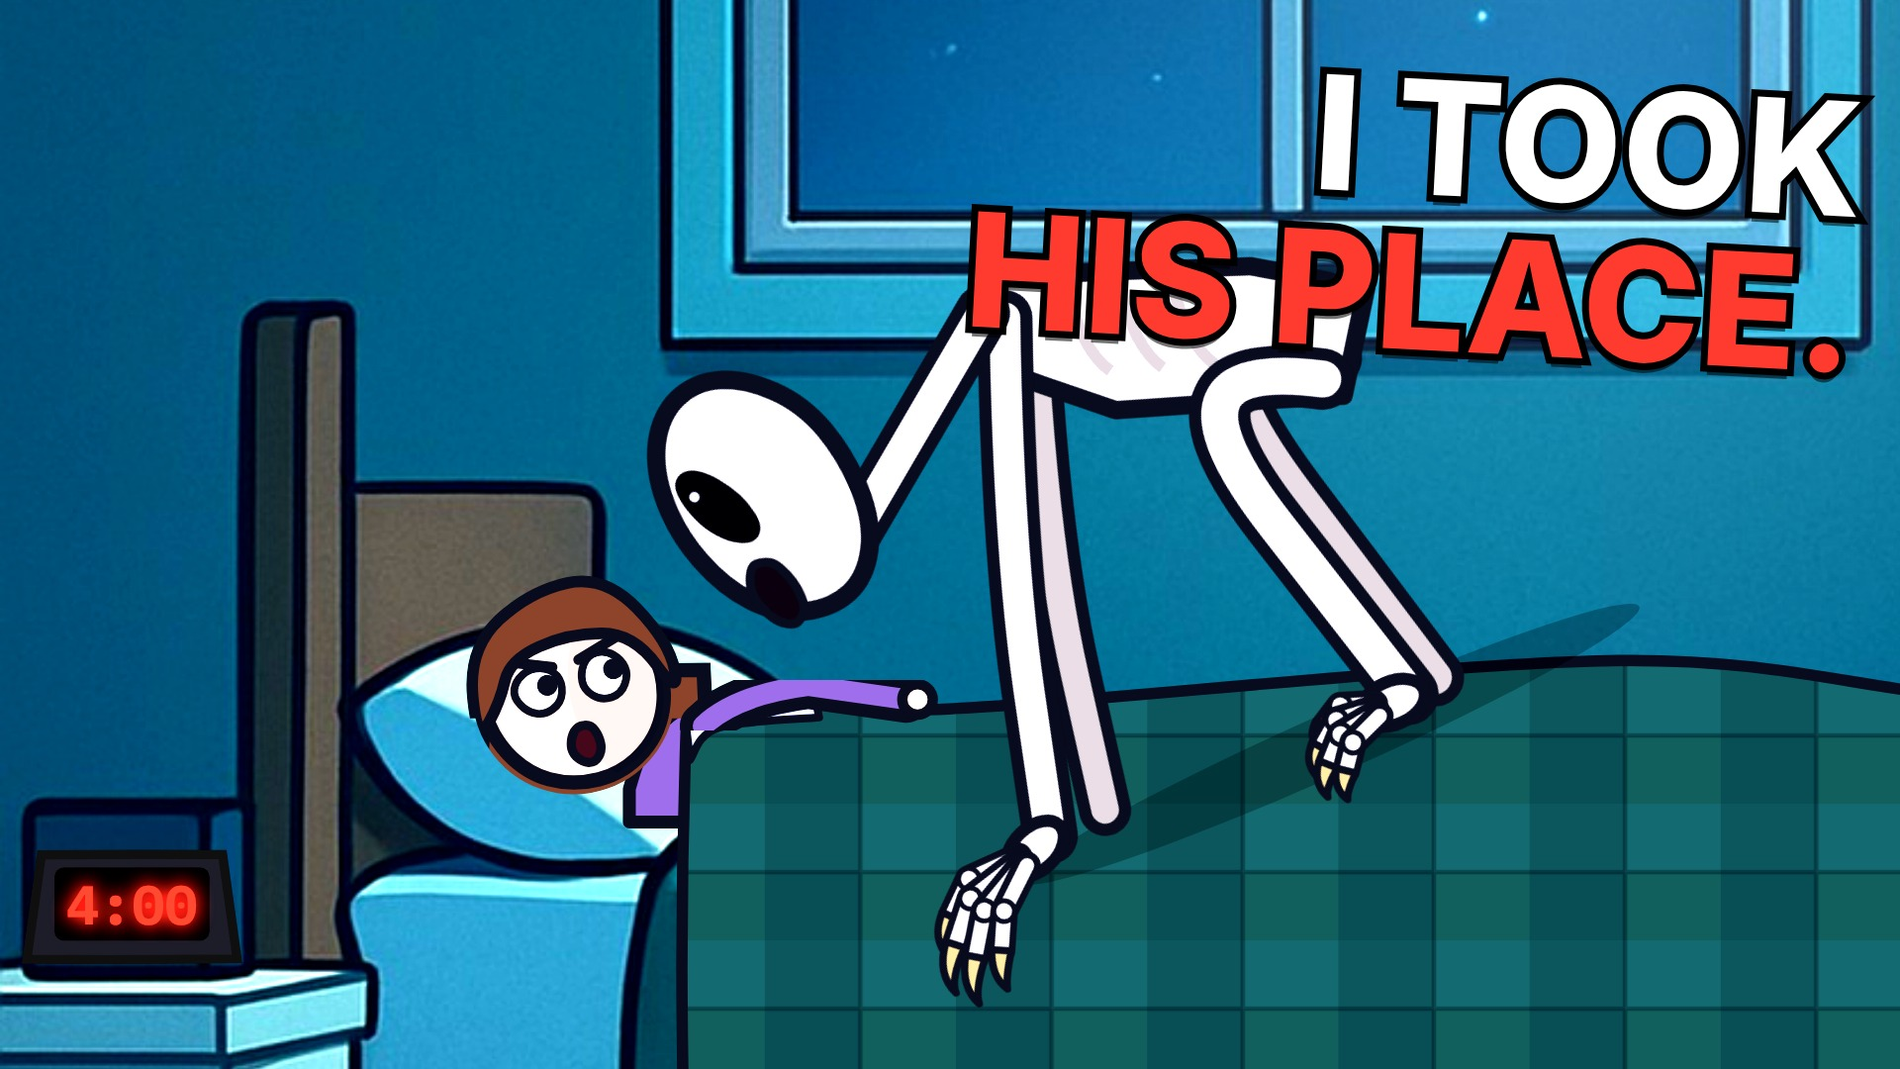
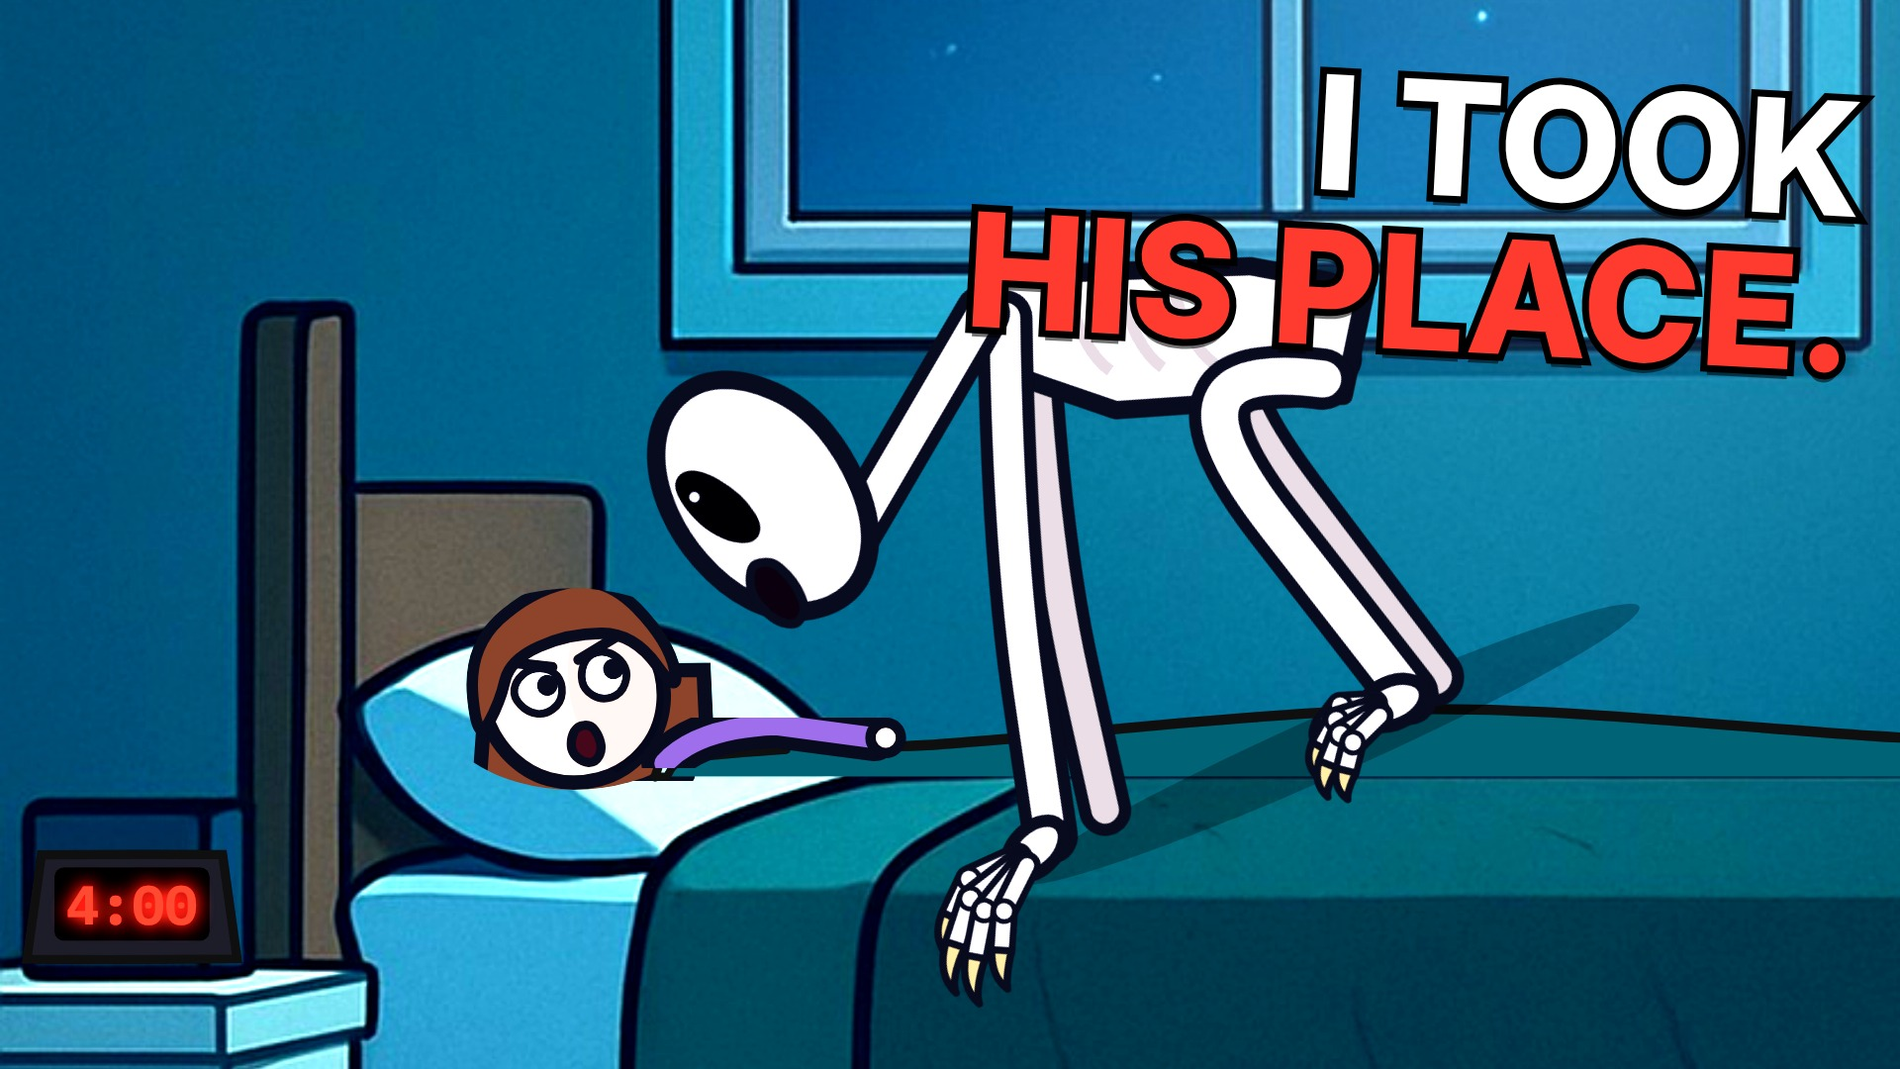
The Rake (stick): sleepers no longer overlap the painted beds
The painted bed now stays exactly as painted; only what a body changes is drawn above the painted
quilt's top edge, in its own colour: head on the pillow (oval clip, hair falls onto the pillow),
shoulder, the mound the body raises, the turned-down sheet and an arm resting on top. The parents'
double bed gets its own drawing (one mound over both, sheet over the chests, quilt below). The
covers-over-the-head lump follows the same rule. Thumbnails re-rendered.

Claude-Session: https://claude.ai/code/session_01HYgoxans3AHT78NQRMkcgm

Changed region(s): [[0.2812, 0.6111, 1.0, 1.0], [0.25, 0.6722, 0.2812, 0.7333], [0.2812, 0.5194, 0.3125, 0.55]]

diff --git a/rake-stick/src/stick/bed.tsx b/rake-stick/src/stick/bed.tsx
@@ -51,11 +51,11 @@ const smoothThrough = (pts: Array<[number, number]>) => {
 	return d;
 };
 
-/** lying on the pillow at px (pillow centre x): the head on the pillow (the stick figure clipped to its head, so no
- *  arm stubs show under the chin), the neck and shoulder in the pyjama colour, the blanket drawn over the body from
- *  the shoulder (it follows chest, knees and feet), and one arm resting on top of it with a round hand.
- *  `matte`: instead of the patchwork quilt, a plain band in the painted quilt's own colour that only raises the body
- *  above the plate's quilt (for beds whose painted quilt should stay visible, e.g. the parents' bed). */
+/** lying on the pillow at px (pillow centre x). The painted bed stays exactly as painted; only what a body changes is
+ *  drawn on top, all of it ABOVE the painted quilt's top edge (b.quilt): the head on the pillow (the stick figure
+ *  clipped to its head, no arms), the shoulder in the pyjama colour, the mound the body raises in the quilt (in the
+ *  painted quilt's own colour, from where the painted quilt starts to the foot), the sheet turned over at its top,
+ *  and one arm resting on it with a round hand. */
 export const LieInBed: React.FC<{
 	b: BedGeo;
 	is: AnyPerson;
@@ -66,18 +66,16 @@ export const LieInBed: React.FC<{
 	frame: number;
 	p?: Record<string, unknown>;
 	id: string;
+	/** knees lift (px), for something pressing on the blanket */
 	wob?: number;
 	x1?: number;
-	/** false: only the head (something else covers the body) */
+	/** false: only the head */
 	blanket?: boolean;
 	shirt?: string;
 	skin?: string;
 	arm?: boolean;
-	cols?: string[];
-	matte?: string;
-	/** move the whole sleeper down (the one nearer the camera in a double bed) */
 	dy?: number;
-}> = ({b, is: P, px, s, child = false, light, frame, p = {}, id, wob = 0, x1, blanket = true, shirt = '#e7a9bb', skin = '#f1cfae', arm = true, cols, matte, dy = 0}) => {
+}> = ({b, is: P, px, s, child = false, light, frame, p = {}, id, wob = 0, x1, blanket = true, shirt = '#e7a9bb', skin = '#f1cfae', arm = true, dy = 0}) => {
 	const k = child ? 0.62 : 1;
 	const R = 36 * (child ? 1.08 : 1) * s;
 	const hy = b.pillowY - 30 + dy;
@@ -86,69 +84,39 @@ export const LieInBed: React.FC<{
 	const hcx = px - 0.24 * R;
 	const hcy = hy + 0.03 * R;
 	const ad = child ? 1 : 1.3;
-	const foot = x1 ?? b.x1 - 30;
-	const xe = px + 0.78 * R * ad; // the blanket's edge, just past the chin
-	const ySh = hy + (matte ? 0.42 : 0.1) * R; // over the shoulder
-	const kneeY = Math.min(b.quilt - 42 + dy, ySh + 0.25 * R) + wob;
-	const flat = b.quilt - 6 + dy * 0.3;
-	const contour: Array<[number, number]> = matte
-		? [
-				[xe - 0.06 * R, ySh + 0.32 * R],
-				[xe + 0.22 * R, ySh + 0.04 * R],
-				[xe + 0.95 * R * ad, ySh + 0.16 * R],
-				[xe + 1.9 * R * ad, (ySh + flat) / 2 + 6],
-				[xe + 3.0 * R * ad, flat - 4],
-				[foot - 200, flat - 2],
-				[foot - 6, flat],
-			]
-		: [
-		[xe - 0.06 * R, ySh + 0.3 * R],
-		[xe + 0.22 * R, ySh],
-		[xe + 1.0 * R * ad, ySh - 0.07 * R],
-		[xe + 2.1 * R * ad, ySh + 0.1 * R],
-		[xe + 0.55 * (foot - xe), kneeY - 6],
-		[foot - 170, kneeY + 10],
-		[foot - 60, kneeY - 8],
-		[foot - 6, kneeY + 18],
-			];
-	const bottom = matte ? b.quilt + 16 + dy : b.skirtTop;
+	const base = b.quilt + 3; // just over the painted quilt's top edge line
+	const xs = Math.max(b.qx0 ?? b.x0 + 200, px + 0.35 * R); // where the mound starts (the painted quilt's start)
+	const foot = x1 ?? b.qx1 ?? b.x1 - 40;
+	const ySh = base - 0.34 * R * ad; // top of the shoulder
+	const kneeX = xs + 0.45 * (foot - xs);
+	const contour: Array<[number, number]> = [
+		[xs - 0.05 * R, base],
+		[xs + 0.22 * R, ySh + 0.04 * R],
+		[xs + 1.0 * R * ad, ySh - 0.04 * R],
+		[xs + 2.0 * R * ad, ySh + 0.12 * R],
+		[kneeX, base - 0.55 * R * ad - wob],
+		[foot - 170, base - 0.3 * R * ad],
+		[foot - 60, base - 0.6 * R * ad],
+		[foot - 4, base],
+	];
 	const topPath = `M${contour[0][0]},${contour[0][1]}${smoothThrough(contour)}`;
-	const edgeX = xe - (matte ? 0.5 : 0.04) * R; // the blanket's near edge slants down toward the pillow
-	const blanketD = `M${edgeX},${bottom} Q${contour[0][0] - 0.1 * R},${(bottom + contour[0][1]) / 2} ${contour[0][0]},${contour[0][1]}${smoothThrough(contour)} L${foot + 2},${bottom} Z`;
-	// the sheet turned down over the blanket's top edge, near the head
-	const foldPts = contour.slice(0, 3);
-	const foldD = `M${foldPts[0][0]},${foldPts[0][1]}${smoothThrough(foldPts)} L${foldPts[2][0] + 0.05 * R},${foldPts[2][1] + 0.26 * R} ${smoothThrough([[foldPts[2][0] + 0.05 * R, foldPts[2][1] + 0.26 * R], [foldPts[1][0] + 0.06 * R, foldPts[1][1] + 0.3 * R], [foldPts[0][0] + 0.04 * R, foldPts[0][1] + 0.34 * R]]).trim().replace(/^C/, 'C')} Z`;
-	// the arm resting on the blanket: out from under its edge at the shoulder, along the chest, the hand on the tummy
+	const moundD = `${topPath} Z`;
+	// the turned-over sheet along the top near the head
+	const f0 = contour.slice(0, 3);
+	const foldD = `M${f0[0][0]},${f0[0][1]}${smoothThrough(f0)} L${f0[2][0] + 0.04 * R},${f0[2][1] + 0.2 * R} ${smoothThrough([[f0[2][0] + 0.04 * R, f0[2][1] + 0.2 * R], [f0[1][0] + 0.08 * R, f0[1][1] + 0.22 * R], [f0[0][0] + 0.12 * R, base]]).trim()} Z`;
+	// the shoulder between the chin and the mound
+	const bodyD = `M${px + 0.25 * R},${base} C${px + 0.3 * R},${ySh + 0.25 * R} ${px + 0.5 * R},${ySh} ${xs + 0.3 * R},${ySh} L${xs + 0.3 * R},${base} Z`;
+	// the arm resting on the mound
 	const topAt = (x: number) => {
 		let best = contour[0];
 		for (const c of contour) if (Math.abs(c[0] - x) < Math.abs(best[0] - x)) best = c;
 		return best[1];
 	};
 	const aw = 0.26 * R * (child ? 1 : 0.85);
-	const sh: [number, number] = [xe + 0.12 * R, ySh + 0.28 * R];
-	const el: [number, number] = [xe + 0.95 * R * ad, topAt(xe + 0.95 * R * ad) - aw * 0.35];
-	const hd: [number, number] = [xe + 1.75 * R * ad, topAt(xe + 1.75 * R * ad) - aw * 0.45];
-	const armD = `M${sh[0]},${sh[1]} Q${sh[0] + 0.35 * R},${ySh - 0.05 * R} ${el[0]},${el[1]} L${hd[0]},${hd[1]}`;
-	// neck + shoulder between the chin and the blanket edge
-	const bodyD = `M${px + 0.35 * R},${hy + 1.05 * R} C${px + 0.45 * R},${hy + 0.7 * R} ${px + 0.6 * R},${ySh + 0.02 * R} ${xe + 0.4 * R},${ySh - 0.05 * R} L${xe + 0.4 * R},${hy + 1.4 * R} L${px + 0.35 * R},${hy + 1.4 * R} Z`;
-	const fill = matte ?? undefined;
-	const quilt = matte ? (
-		<g>
-			<path d={blanketD} fill={fill} />
-			<path d={topPath} fill="none" stroke={INK} strokeWidth={4.5} strokeLinecap="round" />
-			<path d={`M${edgeX},${bottom - 4} Q${contour[0][0] - 0.1 * R},${(bottom + contour[0][1]) / 2} ${contour[0][0]},${contour[0][1]}`} fill="none" stroke={INK} strokeWidth={4.5} strokeLinecap="round" />
-		</g>
-	) : (
-		<Quilt id={`${id}_q`} cols={cols ?? b.quiltCols} d={blanketD} />
-	);
-	const foldEl = <path d={foldD} fill={matte ? '#d8d0c6' : '#c9cfe6'} stroke={INK} strokeWidth={3.5} strokeLinejoin="round" />;
-	const armEl = arm ? (
-		<g>
-			<path d={armD} fill="none" stroke={INK} strokeWidth={aw + lw * 2} strokeLinecap="round" strokeLinejoin="round" />
-			<path d={armD} fill="none" stroke={shirt} strokeWidth={aw} strokeLinecap="round" strokeLinejoin="round" />
-			<circle cx={hd[0] + 0.12 * R} cy={hd[1]} r={0.19 * R * (child ? 1 : 0.85)} fill={skin} stroke={INK} strokeWidth={lw * 0.8} />
-		</g>
-	) : null;
+	const sh: [number, number] = [xs + 0.05 * R, ySh + 0.3 * R];
+	const el: [number, number] = [xs + 0.95 * R * ad, topAt(xs + 0.95 * R * ad) - aw * 0.3];
+	const hd: [number, number] = [xs + 1.75 * R * ad, topAt(xs + 1.75 * R * ad) - aw * 0.4];
+	const armD = `M${sh[0]},${sh[1]} Q${sh[0] + 0.35 * R},${ySh - 0.08 * R} ${el[0]},${el[1]} L${hd[0]},${hd[1]}`;
 	return (
 		<g>
 			{blanket ? (
@@ -158,8 +126,8 @@ export const LieInBed: React.FC<{
 			) : null}
 			<defs>
 				<clipPath id={`${id}_head`}>
-					<rect x={0} y={0} width={1920} height={hy + 0.3 * R} />
-					<circle cx={hcx} cy={hcy} r={R + 2.8 * s} />
+					{/* an oval round the head: hair falls onto the pillow with a soft edge, nothing shows below the chin */}
+					<ellipse cx={hcx} cy={hcy - 0.04 * R} rx={1.55 * R} ry={1.07 * R} />
 				</clipPath>
 			</defs>
 			<g clipPath={`url(#${id}_head)`}>
@@ -167,22 +135,121 @@ export const LieInBed: React.FC<{
 					<P x={px} y={hy + headUp} s={s} frame={frame} tilt={-14} arms="down" noArms {...p} />
 				</Tint>
 			</g>
-			{blanket ? (matte ? quilt : <Tint light={light}>{quilt}</Tint>) : null}
-			{blanket ? (matte ? foldEl : <Tint light={light}>{foldEl}</Tint>) : null}
-			{blanket ? <Tint light={light}>{armEl}</Tint> : null}
+			{blanket ? (
+				<g>
+					<path d={moundD} fill={b.qcol ?? b.quiltCols[0]} />
+					<path d={topPath} fill="none" stroke={INK} strokeWidth={4.5} strokeLinecap="round" strokeLinejoin="round" />
+					{b.sheet ? <path d={foldD} fill={b.sheet} stroke={INK} strokeWidth={3.5} strokeLinejoin="round" /> : null}
+					{arm ? (
+						<Tint light={light}>
+							<path d={armD} fill="none" stroke={INK} strokeWidth={aw + lw * 2} strokeLinecap="round" strokeLinejoin="round" />
+							<path d={armD} fill="none" stroke={shirt} strokeWidth={aw} strokeLinecap="round" strokeLinejoin="round" />
+							<circle cx={hd[0] + 0.12 * R} cy={hd[1]} r={0.19 * R * (child ? 1 : 0.85)} fill={skin} stroke={INK} strokeWidth={lw * 0.8} />
+						</Tint>
+					) : null}
+				</g>
+			) : null}
 		</g>
 	);
 };
 
-/** the blanket pulled over the head: a trembling lump */
-export const HideInBed: React.FC<{b: BedGeo; px: number; light?: Light; shiver?: number; frame: number; id: string}> = ({b, px, light, shiver = 1, frame, id}) => {
-	const j = Math.sin(frame * 2.1) * 2.5 * shiver;
-	const top = b.quilt - 90 + j;
-	const d = `M${b.x0 + 30},${b.skirtTop} L${b.x0 + 32},${top + 50} C${px - 60},${top - 10} ${px + 40},${top - 20} ${px + 120},${top + 30} C${px + 220},${top + 40} ${b.x1 - 160},${top + 26} ${b.x1 - 50},${top + 44} C${b.x1 - 20},${top + 50} ${b.x1 - 10},${top + 70} ${b.x1 - 8},${b.skirtTop} Z`;
+/** Her parents' double bed with Mom (back pillow) and Lily (front pillow) asleep under one blanket: the painted bed
+ *  stays as painted; one mound rises over both bodies above the painted quilt's edge - the top sheet turned down over
+ *  their chests, the quilt from the waist down - with Mom's arm and Lily's arm resting on it. */
+export const ParentsBed: React.FC<{
+	frame: number;
+	mom: AnyPerson;
+	lily: AnyPerson;
+	momP?: Record<string, unknown>;
+	lilyP?: Record<string, unknown>;
+	momShirt: string;
+	momSkin: string;
+	lilyShirt: string;
+	lilySkin: string;
+	light?: Light;
+}> = ({frame, mom: Mom, lily: Lily, momP = {}, lilyP = {}, momShirt, momSkin, lilyShirt, lilySkin, light}) => {
+	const QUILT = '#c09e78';
+	const SHEET = '#cdb9a5';
+	// heads: Mom on the back pillow, Lily on the front one
+	const mR = 36 * 1.3;
+	const lR = 36 * 1.08 * 1.6;
+	const mHy = 610;
+	const lHy = 624;
+	const head = (P: AnyPerson, px: number, hy: number, s: number, child: boolean, R: number, p: Record<string, unknown>, id: string) => (
+		<g>
+			<defs>
+				<clipPath id={id}>
+					<ellipse cx={px - 0.24 * R} cy={hy - 0.01 * R} rx={1.55 * R} ry={1.07 * R} />
+				</clipPath>
+			</defs>
+			<g clipPath={`url(#${id})`}>
+				<Tint light={light}>
+					<P x={px} y={hy + 262 * (child ? 0.62 : 1) * s} s={s} frame={frame} tilt={-14} arms="down" noArms {...p} />
+				</Tint>
+			</g>
+		</g>
+	);
+	const contour: Array<[number, number]> = [
+		[232, 742],
+		[262, 668],
+		[300, 650],
+		[352, 664],
+		[420, 676],
+		[505, 664],
+		[600, 672],
+		[760, 688],
+		[960, 684],
+		[1100, 694],
+		[1190, 688],
+		[1248, 718],
+	];
+	const top = `M${contour[0][0]},${contour[0][1]}${smoothThrough(contour)}`;
+	const mound = `${top} L1248,722 L400,722 L372,780 L240,792 Z`;
+	// the turned-down sheet: the part over their chests, ending in a soft fold at x ~ 740
+	const sheetD = `M232,742${smoothThrough(contour.slice(0, 8))} C752,700 742,712 738,722 L400,722 L372,780 L240,792 Z`;
+	const arm = (pts: string, w: number, col: string, hand: [number, number], r: number) => (
+		<g>
+			<path d={pts} fill="none" stroke={INK} strokeWidth={w + 10} strokeLinecap="round" strokeLinejoin="round" />
+			<path d={pts} fill="none" stroke={col} strokeWidth={w} strokeLinecap="round" strokeLinejoin="round" />
+			<circle cx={hand[0]} cy={hand[1]} r={r} fill={momSkin === col ? lilySkin : col === momShirt ? momSkin : lilySkin} stroke={INK} strokeWidth={5} />
+		</g>
+	);
 	return (
-		<Tint light={light}>
-			<Quilt id={`${id}_q`} cols={b.quiltCols} d={d} />
-		</Tint>
+		<g>
+			{head(Mom, 215, mHy, 1.3, false, mR, momP, 'pbMom')}
+			<path d={mound} fill={QUILT} />
+			<path d={sheetD} fill={SHEET} />
+			<path d={top} fill="none" stroke={INK} strokeWidth={4.5} strokeLinecap="round" strokeLinejoin="round" />
+			<path d="M752,700 C742,712 740,716 738,722" fill="none" stroke={INK} strokeWidth={3.5} strokeLinecap="round" />
+			<Tint light={light}>{arm('M296,676 Q330,654 372,660 L432,662', 12, momShirt, [446, 662], 9)}</Tint>
+			{head(Lily, 430, lHy, 1.6, true, lR, lilyP, 'pbLily')}
+			<Tint light={light}>{arm('M500,700 Q540,668 580,664 L640,664', 16, lilyShirt, [656, 664], 12)}</Tint>
+		</g>
+	);
+};
+
+/** the blanket pulled over the head: a trembling lump in the painted quilt's colour, over the pillow */
+export const HideInBed: React.FC<{b: BedGeo; px: number; light?: Light; shiver?: number; frame: number; id: string}> = ({b, px, shiver = 1, frame}) => {
+	const j = Math.sin(frame * 2.1) * 2.5 * shiver;
+	const base = b.quilt + 3;
+	const foot = b.qx1 ?? b.x1 - 40;
+	const top: Array<[number, number]> = [
+		[b.x0 + 40, base + 70],
+		[px - 90, base - 70 + j],
+		[px + 40, base - 92 + j],
+		[px + 190, base - 58 + j],
+		[px + 420, base - 34 + j * 0.5],
+		[foot - 160, base - 26],
+		[foot - 60, base - 40],
+		[foot - 4, base],
+	];
+	const d = `M${top[0][0]},${top[0][1]}${smoothThrough(top)} L${foot - 4},${base + 2} L${(b.qx0 ?? px + 80) + 10},${base + 2} L${px + 60},${base + 70} Z`;
+	return (
+		<g>
+			<path d={d} fill={b.qcol ?? b.quiltCols[0]} />
+			<path d={`M${top[0][0]},${top[0][1]}${smoothThrough(top)}`} fill="none" stroke={INK} strokeWidth={5} strokeLinecap="round" />
+			<path d={`M${top[0][0]},${top[0][1]} L${px + 60},${base + 70}`} fill="none" stroke={INK} strokeWidth={4} strokeLinecap="round" />
+		</g>
 	);
 };
 

diff --git a/rake-stick/src/stick/kit.tsx b/rake-stick/src/stick/kit.tsx
@@ -70,12 +70,14 @@ export type SetId = 'bedroom_night' | 'bedroom_pov_night' | 'master_night' | 'ki
 const WHITE_SETS = new Set<SetId>([]);
 
 /** a bed seen side-on (headboard left): the quilt top, the pillow, the skirt, the floor in front */
-export type BedGeo = {x0: number; x1: number; pillow: [number, number]; pillowY: number; quilt: number; skirtTop: number; skirtBottom: number; floor: number; quiltCols: string[]};
+export type BedGeo = {x0: number; x1: number; pillow: [number, number]; pillowY: number; quilt: number; skirtTop: number; skirtBottom: number; floor: number; quiltCols: string[];
+	/** the painted quilt's far top edge: where it starts by the pillow and ends at the foot, its colour, and the sheet's */
+	qx0?: number; qx1?: number; qcol?: string; sheet?: string};
 
 /** measured on the painted plates (1920x1080) */
 export const GEO = {
 	// Lily's little bedroom (it was Danny's): bed left, window above it, the door and a toy chest right
-	bed: {x0: 160, x1: 1185, pillow: [180, 445], pillowY: 735, quilt: 728, skirtTop: 915, skirtBottom: 1060, floor: 900, quiltCols: ['#2f3470', '#3a3f86', '#2a2f66', '#363c7c']} as BedGeo,
+	bed: {x0: 160, x1: 1185, pillow: [180, 445], pillowY: 735, quilt: 728, skirtTop: 915, skirtBottom: 1060, floor: 900, quiltCols: ['#2f3470', '#3a3f86', '#2a2f66', '#363c7c'], qx0: 385, qx1: 1145, qcol: '#232960', sheet: '#8a98c7'} as BedGeo,
 	room: {door: [1270, 55, 1705, 900] as const, knob: [1352, 503] as Pt, chest: [1555, 755, 1860, 985] as const, window: [190, 110, 750, 540] as const, clock: [52, 790] as Pt, stand: 1000},
 	// her parents' room: the double bed, the wall her room is behind on the right
 	master: {x0: 60, x1: 1300, pillow: [90, 500], pillowY: 640, quilt: 720, skirtTop: 900, skirtBottom: 1060, floor: 890, quiltCols: ['#c9a878', '#b8976a', '#c9a878', '#b8976a']} as BedGeo,
@@ -86,7 +88,7 @@ export const GEO = {
 	attic: {window: [880, 210] as Pt, trunk: [650, 690, 1140, 940] as const, fan: [1400, 620, 1720, 940] as const, boxes: [0, 510, 380, 990] as const, floor: 985},
 	hall: {left: [0, 90, 375, 1000] as const, right: [1460, 90, 1810, 1005] as const, table: [645, 670, 1190, 1020] as const, floor: 1035},
 	// today: Sam's room in their new home 800 miles away (night and morning plates differ a little), the kitchen, the house
-	son: {x0: 150, x1: 1075, pillow: [150, 370], pillowY: 700, quilt: 705, skirtTop: 915, skirtBottom: 1010, floor: 1005, quiltCols: ['#1f4a3e', '#26574a', '#1c4338', '#23503f']} as BedGeo,
+	son: {x0: 150, x1: 1075, pillow: [150, 370], pillowY: 700, quilt: 705, skirtTop: 915, skirtBottom: 1010, floor: 1005, quiltCols: ['#1f4a3e', '#26574a', '#1c4338', '#23503f'], qx0: 290, qx1: 1040, qcol: '#11424b', sheet: '#8fbcba'} as BedGeo,
 	sonRoom: {door: [1470, 45, 1830, 925] as const, clock: [58, 790] as Pt, floor: 962},
 	sonDay: {x0: 85, x1: 1080, pillow: [105, 385], pillowY: 770, quilt: 757, skirtTop: 990, skirtBottom: 1015, floor: 1080, quiltCols: ['#3f6b48', '#477652', '#3a6343', '#42704c']} as BedGeo,
 	sonDayRoom: {door: [1440, 30, 1830, 990] as const, floor: 1000},

diff --git a/rake-stick/src/scenes/ThirdNight.tsx b/rake-stick/src/scenes/ThirdNight.tsx
@@ -2,7 +2,7 @@
 // the bed empty, the blanket raked open; they never found him.
 import React from 'react';
 import {Dad, Lily, Mom, PAL} from '../components/characters/Cast';
-import {LieInBed, SitInBed} from '../stick/bed';
+import {LieInBed, ParentsBed} from '../stick/bed';
 import {DoorOpen, Person} from '../stick/goat';
 import {GEO, ramp, shot, Shots, useStick, walk, type Shot} from '../stick/kit';
 import {BedClock, Glow, Tears} from '../stick/props';
@@ -10,12 +10,7 @@ import {Rake} from '../stick/rake';
 import {RoomClock} from './common';
 
 const B = GEO.bed;
-const M = GEO.master;
 const PILLOW_X = 312;
-const MOM_X = 215;
-const LILY_X = 430;
-/** the painted quilt of her parents' bed */
-const MASTER_QUILT = '#bc966f';
 /** the tears across her blanket, pillow end to foot */
 const TEAR_A: [number, number] = [460, 790];
 const TEAR_B: [number, number] = [1120, 800];
@@ -53,18 +48,12 @@ export const ThirdNight: React.FC = () => {
 	const world = (s: Shot) => {
 		if (s.set === 'master_night') {
 			const awake = t > T('narrator_025_four') + 0.2;
-			const sitting = s.tag === 'up' && t > T('narrator_028_mom', 0.45);
 			const lilyP = {eyes: awake ? 'wide' : 'closed', brows: awake ? 'worried' : 'flat', look: t > T('narrator_027_voice') ? [1, -0.2] : [0.4, -0.8], idle: !awake, mouth: 'flat'};
 			return (
 				<g>
 					<Glow cx={1270} cy={290} r={520} color="#b9cdf2" k={0.3} />
 					<BedClock x={70} y={835} text="4:00" frame={f} />
-					<LieInBed b={M} is={Mom} px={MOM_X} s={1.3} frame={f} id="mom" shirt={PAL.mom.shirt} skin={PAL.mom.skin} matte={MASTER_QUILT} p={{eyes: 'closed', brows: 'flat', mouth: 'flat', idle: false}} />
-					{sitting ? (
-						<SitInBed b={M} is={Lily} x={LILY_X + 70} s={1.6} child frame={f} id="lilyUp" lap={false} p={{eyes: 'wide', brows: 'worried', look: [-1, 0.2], mouth: 'o', arms: 'hugKnees'}} />
-					) : (
-						<LieInBed b={M} is={Lily} px={LILY_X} s={1.6} child frame={f} id="lily" shirt={PAL.lily.shirt} skin={PAL.lily.skin} matte={MASTER_QUILT} dy={14} p={lilyP} />
-					)}
+					<ParentsBed frame={f} mom={Mom} lily={Lily} momP={{eyes: 'closed', brows: 'flat', mouth: 'flat', idle: false}} lilyP={lilyP} momShirt={PAL.mom.shirt} momSkin={PAL.mom.skin} lilyShirt={PAL.lily.shirt} lilySkin={PAL.lily.skin} />
 				</g>
 			);
 		}

diff --git a/rake-stick/src/dev/Sheet.tsx b/rake-stick/src/dev/Sheet.tsx
@@ -18,7 +18,7 @@ export const Sheet: React.FC = () => {
 	const B = GEO.bed;
 	if (i === 0)
 		return (
-			<Stage set="bedroom_night" z={4} f={[330, 720]} t={t}>
+			<Stage set="bedroom_night" z={1.6} f={[600, 640]} t={t}>
 				<BedClock x={GEO.room.clock[0]} y={GEO.room.clock[1] + 20} text="4:00" frame={f} />
 				<LieInBed b={B} is={Lily} px={312} s={1.75} child frame={f} id="l0" shirt={PAL.lily.shirt} skin={PAL.lily.skin} p={{eyes: 'wide', brows: 'worried'}} />
 				<Rake x={760} y={B.quilt - 34} s={1.35} frame={f} pose="side" dir={-1} />
@@ -55,8 +55,8 @@ export const Sheet: React.FC = () => {
 	if (i === 5)
 		return (
 			<Stage set="master_night" z={1.5} f={[620, 640]} t={t}>
-				<LieInBed b={GEO.master} is={Mom} px={215} s={1.3} frame={f} id="m" shirt={PAL.mom.shirt} skin={PAL.mom.skin} matte="#bc966f" p={{eyes: 'closed'}} />
-				<LieInBed b={GEO.master} is={Lily} px={430} s={1.6} child frame={f} id="l" shirt={PAL.lily.shirt} skin={PAL.lily.skin} matte="#bc966f" dy={14} p={{eyes: 'wide', look: [1, 0]}} />
+				<LieInBed b={GEO.master} is={Mom} px={215} s={1.3} frame={f} id="m" shirt={PAL.mom.shirt} skin={PAL.mom.skin} p={{eyes: 'closed'}} />
+				<LieInBed b={GEO.master} is={Lily} px={430} s={1.6} child frame={f} id="l" shirt={PAL.lily.shirt} skin={PAL.lily.skin} dy={14} p={{eyes: 'wide', look: [1, 0]}} />
 			</Stage>
 		);
 	if (i === 6)
